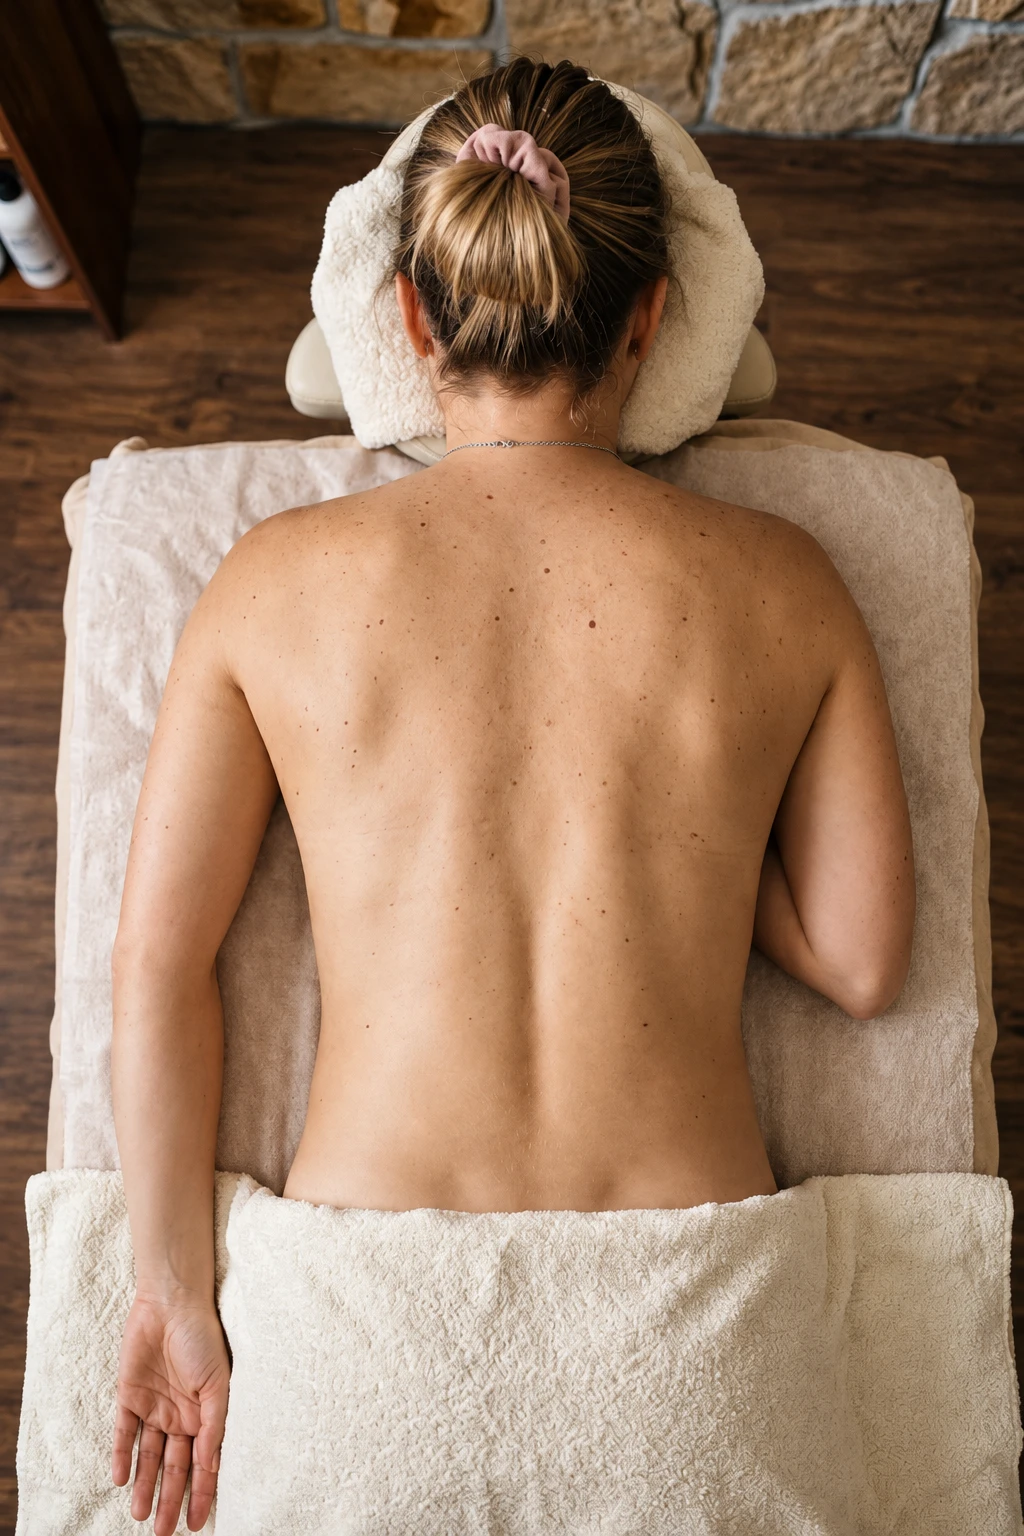
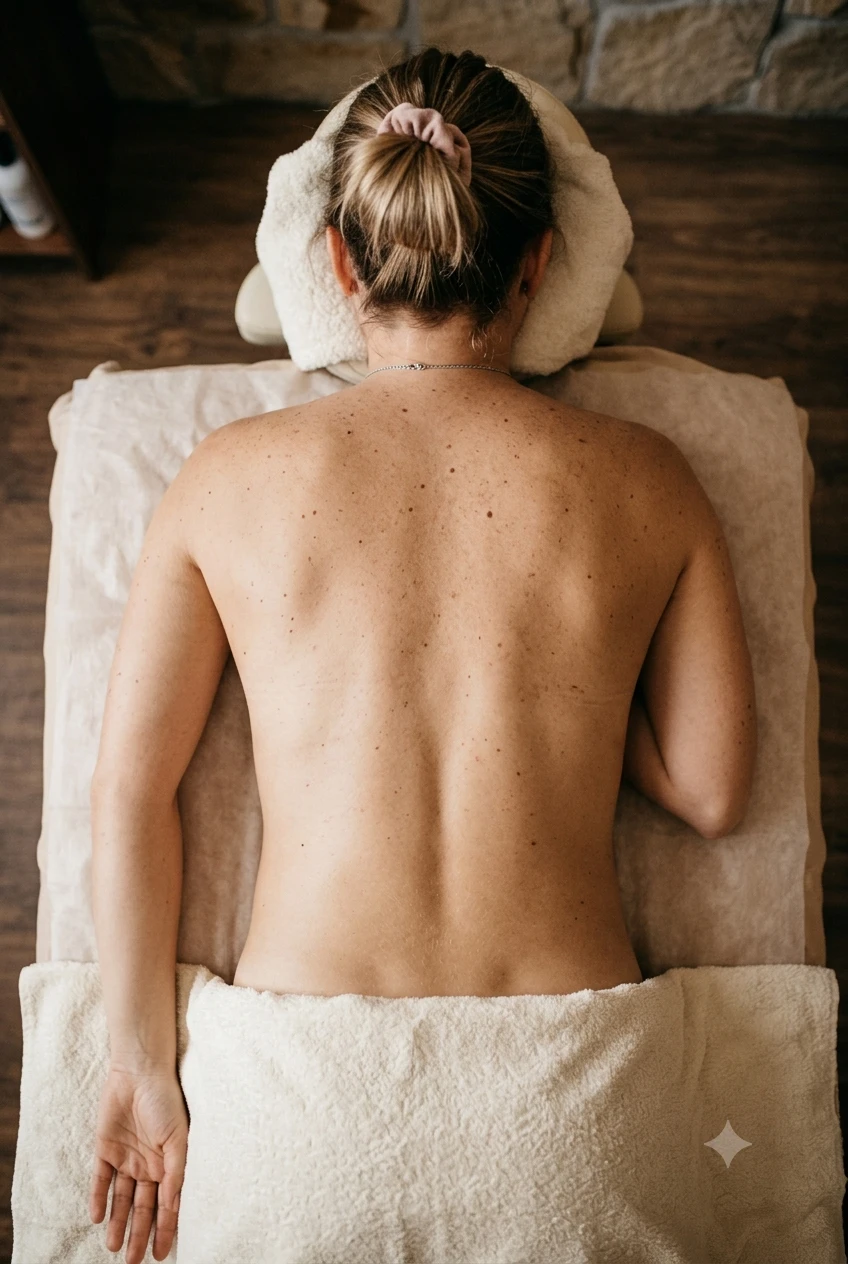
Revert to the initial published version
The animation-timing and image-sizing changes made after the first publish
introduced regressions (stretched hands image, caching confusion) that took
several iterations without fully resolving. Rolling back to the state that
was first committed and published, as a clean baseline to work from again.

diff --git a/index.html b/index.html
@@ -5,49 +5,10 @@
 <meta name="viewport" content="width=device-width, initial-scale=1.0">
 <title>Марія Козловська — масажистка</title>
 <meta name="description" content="Приватна масажна студія. Класичний, загальний та антицелюлітний масаж. Запис онлайн.">
-<link rel="canonical" href="https://eksider.github.io/maria-kozlovska-massage/">
-<link rel="icon" type="image/svg+xml" href="assets/favicon.svg">
-
-<meta property="og:type" content="website">
-<meta property="og:locale" content="uk_UA">
-<meta property="og:url" content="https://eksider.github.io/maria-kozlovska-massage/">
-<meta property="og:title" content="Марія Козловська — масажистка">
-<meta property="og:description" content="Приватна масажна студія. Класичний, загальний та антицелюлітний масаж. Запис онлайн.">
-<meta property="og:image" content="https://eksider.github.io/maria-kozlovska-massage/assets/images/hero-back.webp">
-
-<meta name="twitter:card" content="summary_large_image">
-<meta name="twitter:title" content="Марія Козловська — масажистка">
-<meta name="twitter:description" content="Приватна масажна студія. Класичний, загальний та антицелюлітний масаж. Запис онлайн.">
-<meta name="twitter:image" content="https://eksider.github.io/maria-kozlovska-massage/assets/images/hero-back.webp">
-
 <link rel="preconnect" href="https://fonts.googleapis.com">
 <link rel="preconnect" href="https://fonts.gstatic.com" crossorigin>
 <link href="https://fonts.googleapis.com/css2?family=Playfair+Display:wght@500;600;700&family=Manrope:wght@400;500;600;700&display=swap" rel="stylesheet">
-<link rel="stylesheet" href="css/style.css?v=2">
-
-<script type="application/ld+json">
-{
-  "@context": "https://schema.org",
-  "@type": "HealthAndBeautyBusiness",
-  "name": "Марія Козловська — масажистка",
-  "image": "https://eksider.github.io/maria-kozlovska-massage/assets/images/hero-back.webp",
-  "url": "https://eksider.github.io/maria-kozlovska-massage/",
-  "telephone": "+380000000000",
-  "priceRange": "₴₴",
-  "address": {
-    "@type": "PostalAddress",
-    "streetAddress": "вул. Назва, 00",
-    "addressLocality": "Місто",
-    "addressCountry": "UA"
-  },
-  "openingHoursSpecification": {
-    "@type": "OpeningHoursSpecification",
-    "dayOfWeek": ["Monday", "Tuesday", "Wednesday", "Thursday", "Friday", "Saturday"],
-    "opens": "09:00",
-    "closes": "20:00"
-  }
-}
-</script>
+<link rel="stylesheet" href="css/style.css">
 </head>
 <body>
 
@@ -60,7 +21,7 @@
       <button type="button" class="lang-btn" data-lang-btn="en">EN</button>
     </div>
 
-    <button class="nav-toggle" id="navToggle" aria-label="Меню" aria-expanded="false" aria-controls="navLinks">
+    <button class="nav-toggle" id="navToggle" aria-label="Меню" aria-expanded="false">
       <span></span><span></span><span></span>
     </button>
 
@@ -76,9 +37,9 @@
 
 <div class="hero-wrapper" id="heroWrapper">
   <div class="hero-sticky" id="top">
-    <img class="hero-back" src="assets/images/hero-back.webp" width="1024" height="1536" alt="Масаж спини — розслаблюючий масаж у затишній студії">
+    <img class="hero-back" src="assets/images/hero-back.webp" alt="Масаж спини — розслаблюючий масаж у затишній студії">
     <div class="hero-scrim"></div>
-    <img class="hero-hands" id="heroHands" src="assets/images/hero-hands.webp" width="1100" height="1430" alt="">
+    <img class="hero-hands" id="heroHands" src="assets/images/hero-hands.webp" alt="">
 
     <div class="hero-content" id="heroContent">
       <p class="hero-eyebrow" data-uk="Приватна студія масажу" data-en="Private Massage Studio">Приватна студія масажу</p>
@@ -237,6 +198,6 @@
 
 </main>
 
-<script src="js/script.js?v=2"></script>
+<script src="js/script.js"></script>
 </body>
 </html>

diff --git a/js/script.js b/js/script.js
@@ -5,12 +5,8 @@
   var scrollHint = document.getElementById('scrollHint');
   var siteNav = document.getElementById('siteNav');
 
-  var START_Y = 58;  // vh, hands start just below the viewport
-  var END_Y = -12;   // vh, resting position on the upper back/shoulders
-
-  var ARRIVE_END = 0.16; // 0-16% of scroll: hands quickly travel up onto the back
-  var HOLD_END = 0.78;   // 16-78%: hands stay put, fully visible
-  // 78-100%: hands fade out as the page hands off to the main content
+  var START_Y = 72; // vh, hands start below the viewport
+  var END_Y = -18;  // vh, hands end above the viewport (near shoulders)
 
   function clamp(value, min, max) {
     return Math.min(max, Math.max(min, value));
@@ -23,10 +19,9 @@
     var scrolledInto = -heroWrapper.getBoundingClientRect().top;
     var progress = scrollable > 0 ? clamp(scrolledInto / scrollable, 0, 1) : 0;
 
-    var arriveT = clamp(progress / ARRIVE_END, 0, 1);
-    var y = START_Y + (END_Y - START_Y) * arriveT;
-    var scale = 1.05 - 0.18 * arriveT;
-    var handsOpacity = progress > HOLD_END ? clamp(1 - (progress - HOLD_END) / (1 - HOLD_END), 0, 1) : 1;
+    var y = START_Y + (END_Y - START_Y) * progress;
+    var scale = 1.05 - 0.18 * progress;
+    var handsOpacity = progress > 0.82 ? clamp(1 - (progress - 0.82) / 0.18, 0, 1) : 1;
 
     hands.style.transform = 'translate(-50%, ' + y + 'vh) scale(' + scale + ')';
     hands.style.opacity = handsOpacity;

diff --git a/css/style.css b/css/style.css
@@ -184,7 +184,6 @@ img { max-width: 100%; display: block; }
   left: 50%;
   top: 50%;
   width: min(60vw, 420px);
-  height: auto;
   transform: translate(-50%, 70vh) scale(1.05);
   filter: drop-shadow(0 20px 30px rgba(0, 0, 0, 0.35));
   -webkit-mask-image: linear-gradient(to bottom, black 0%, black 80%, transparent 96%);
@@ -540,20 +539,4 @@ img { max-width: 100%; display: block; }
 
   .hero-wrapper { height: 220vh; }
   .hero-content { padding-top: 72px; }
-}
-
-@media (prefers-reduced-motion: reduce) {
-  html { scroll-behavior: auto; }
-
-  .hero-wrapper { height: 100vh; }
-  .hero-hands,
-  .scroll-hint { display: none; }
-  .hero-content { opacity: 1 !important; }
-
-  .site-nav {
-    transform: translateY(0);
-    border-bottom-color: var(--color-line);
-  }
-
-  .scroll-arrow { animation: none; }
 }
